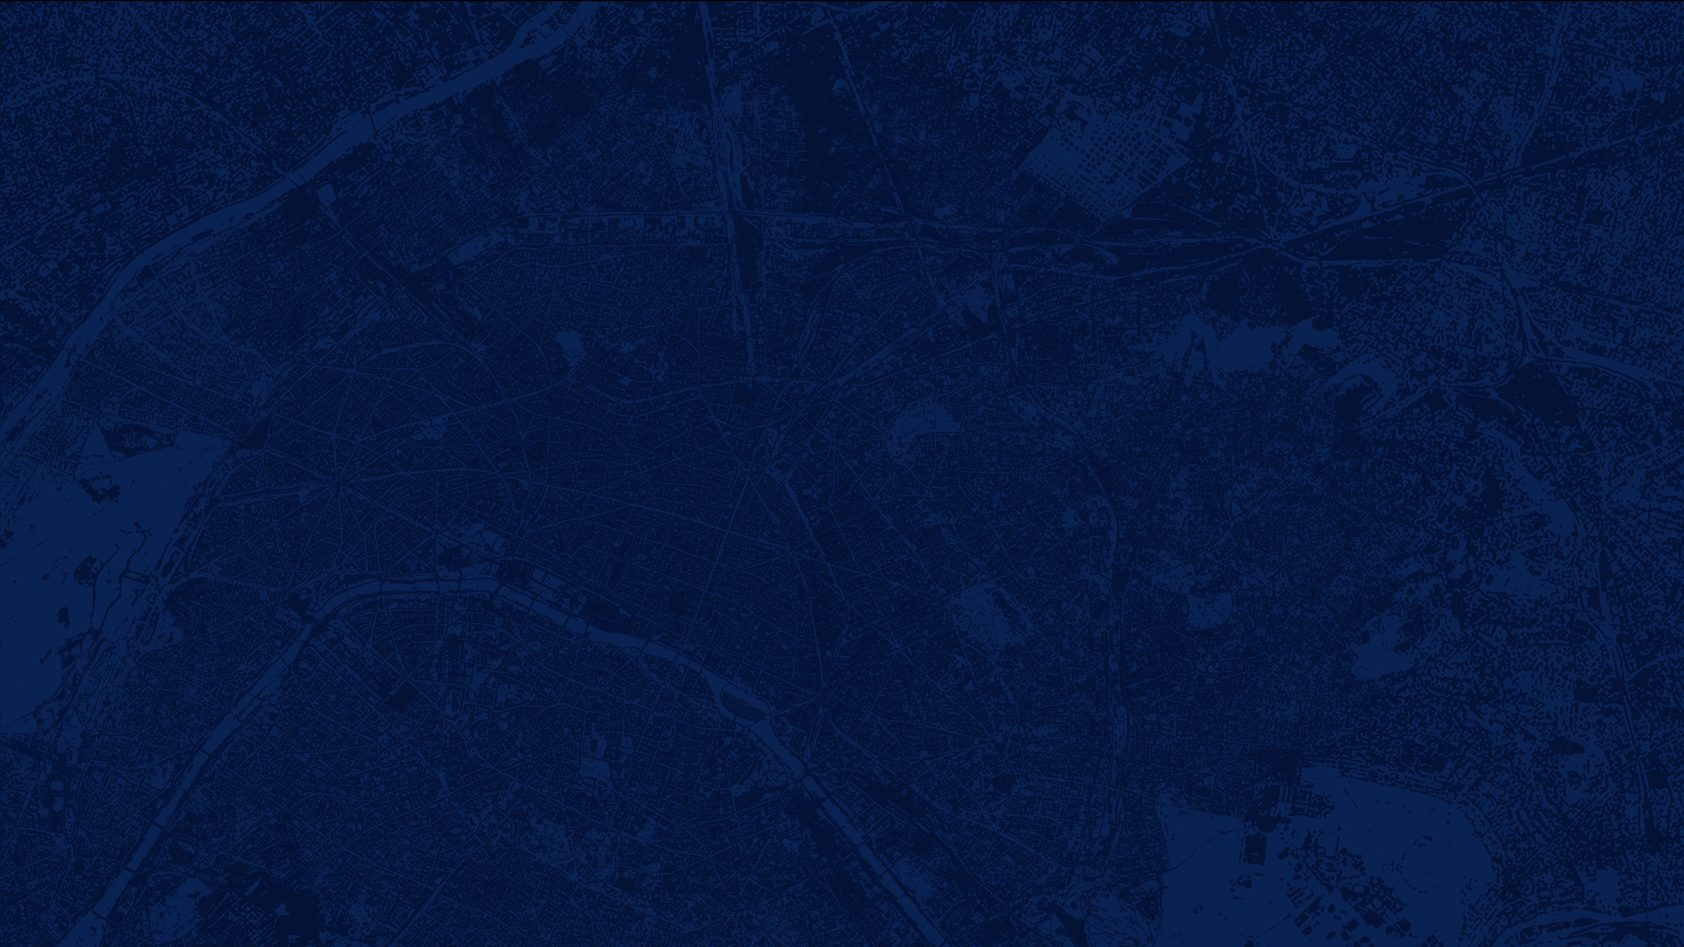
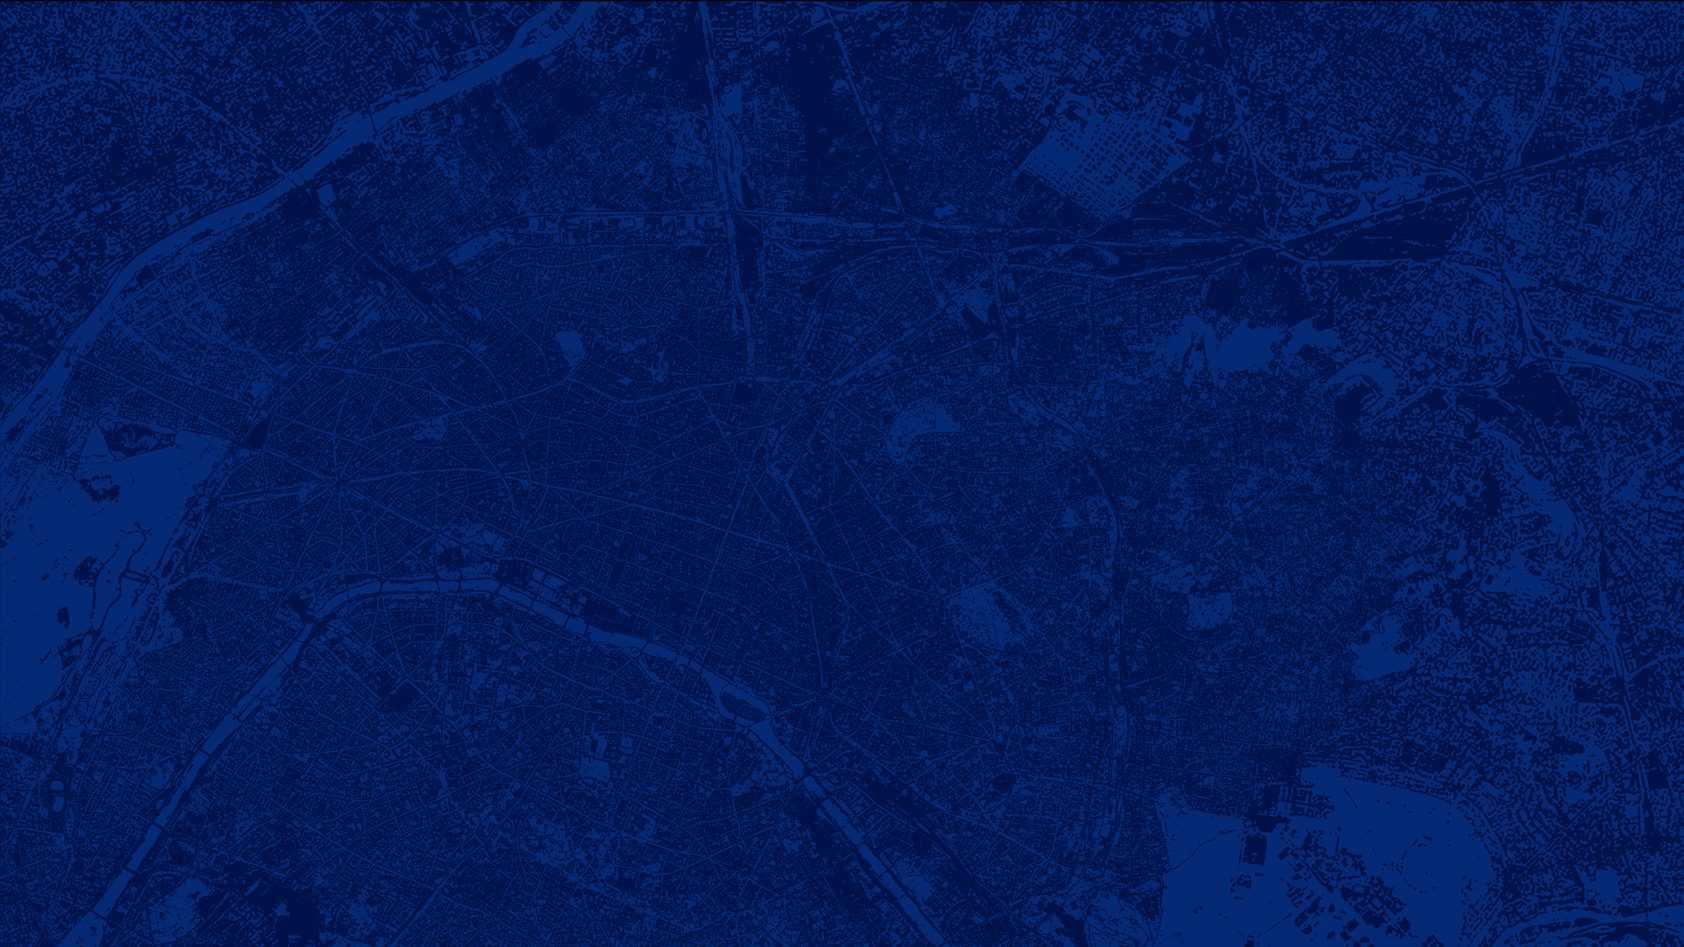
Rapport de match : plan de Paris plus visible (cartes plus transparentes, fond plus contrasté)
Claude-Session: https://claude.ai/code/session_01LunycbSc1eMEC1xLGTNELf

diff --git a/paris_football_club.py b/paris_football_club.py
@@ -9856,12 +9856,12 @@ body{{background:#020B1F;-webkit-print-color-adjust:exact;print-color-adjust:exa
 .hs{{font-size:10.5px;color:#9FB8D8;margin-top:2px;}}
 .sc{{color:#E5322D;font-weight:800;}}
 .body{{display:grid;grid-template-columns:41% 1fr;flex:1;min-height:0;}}
-.left{{background:rgba(4,18,50,.45);padding:12px 14px 12px 22px;border-right:2px solid rgba(31,168,224,.35);display:flex;flex-direction:column;min-height:0;}}
+.left{{background:rgba(4,18,50,.15);padding:12px 14px 12px 22px;border-right:2px solid rgba(31,168,224,.35);display:flex;flex-direction:column;min-height:0;}}
 .right{{padding:12px 22px 12px 18px;display:flex;flex-direction:column;min-height:0;}}
 .sect{{font-size:12px;font-weight:700;letter-spacing:2.2px;color:#1FA8E0;margin-bottom:9px;}}
 .cols{{display:grid;grid-template-columns:1fr 1fr;gap:10px;flex:1;min-height:0;}}
 .col{{display:flex;flex-direction:column;gap:10px;min-height:0;}}
-.card{{background:rgba(16,46,100,.78);border:1px solid rgba(255,255,255,.08);border-radius:12px;padding:10px 12px;display:flex;flex-direction:column;}}
+.card{{background:rgba(16,46,100,.42);border:1px solid rgba(255,255,255,.16);border-radius:12px;padding:10px 12px;display:flex;flex-direction:column;}}
 .col>.card{{flex-basis:0;}}
 .rows{{flex:1;display:flex;flex-direction:column;justify-content:space-around;}}
 .ct{{font-size:10.5px;font-weight:700;letter-spacing:1.4px;text-transform:uppercase;color:#1FA8E0;margin-bottom:5px;}}
@@ -9879,7 +9879,7 @@ body{{background:#020B1F;-webkit-print-color-adjust:exact;print-color-adjust:exa
 .cv{{font-family:Unbounded,sans-serif;font-size:15px;font-weight:700;color:#FFF;margin-top:2px;}}
 .graph{{display:grid;grid-template-columns:minmax(0,.72fr) minmax(0,1.08fr) minmax(0,1fr);grid-template-rows:1fr auto;gap:12px;flex:1;min-height:0;}}
 .gcol{{display:flex;flex-direction:column;gap:10px;min-height:0;}}
-.gcard{{background:rgba(12,40,92,.92);border:1px solid rgba(255,255,255,.08);border-top:3px solid #1FA8E0;border-radius:12px;padding:10px 12px;display:flex;flex-direction:column;min-height:0;}}
+.gcard{{background:rgba(12,40,92,.48);border:1px solid rgba(255,255,255,.16);border-top:3px solid #1FA8E0;border-radius:12px;padding:10px 12px;display:flex;flex-direction:column;min-height:0;}}
 .g-heat{{flex:1;}}
 .g-heat .panel img{{position:static!important;width:100%!important;height:auto!important;}}
 .g-heat .panel{{background:#FFF;padding:4px;}}
